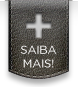
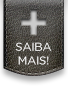
alterando botao de saiba mais

diff --git a/app/assets/stylesheets/header.css.scss b/app/assets/stylesheets/header.css.scss
@@ -311,10 +311,10 @@ a#natal_bar{
     }
 
     a.how_it_works {
-      background: image-url('saibamais.png') no-repeat -10px 0;
+      background: image-url('saibamais.png') no-repeat -5px 0;
       text-indent: -15000px;
       width: 60px;
-      height: 80px;
+      height: 85px;
       float: left;
     }
   }
